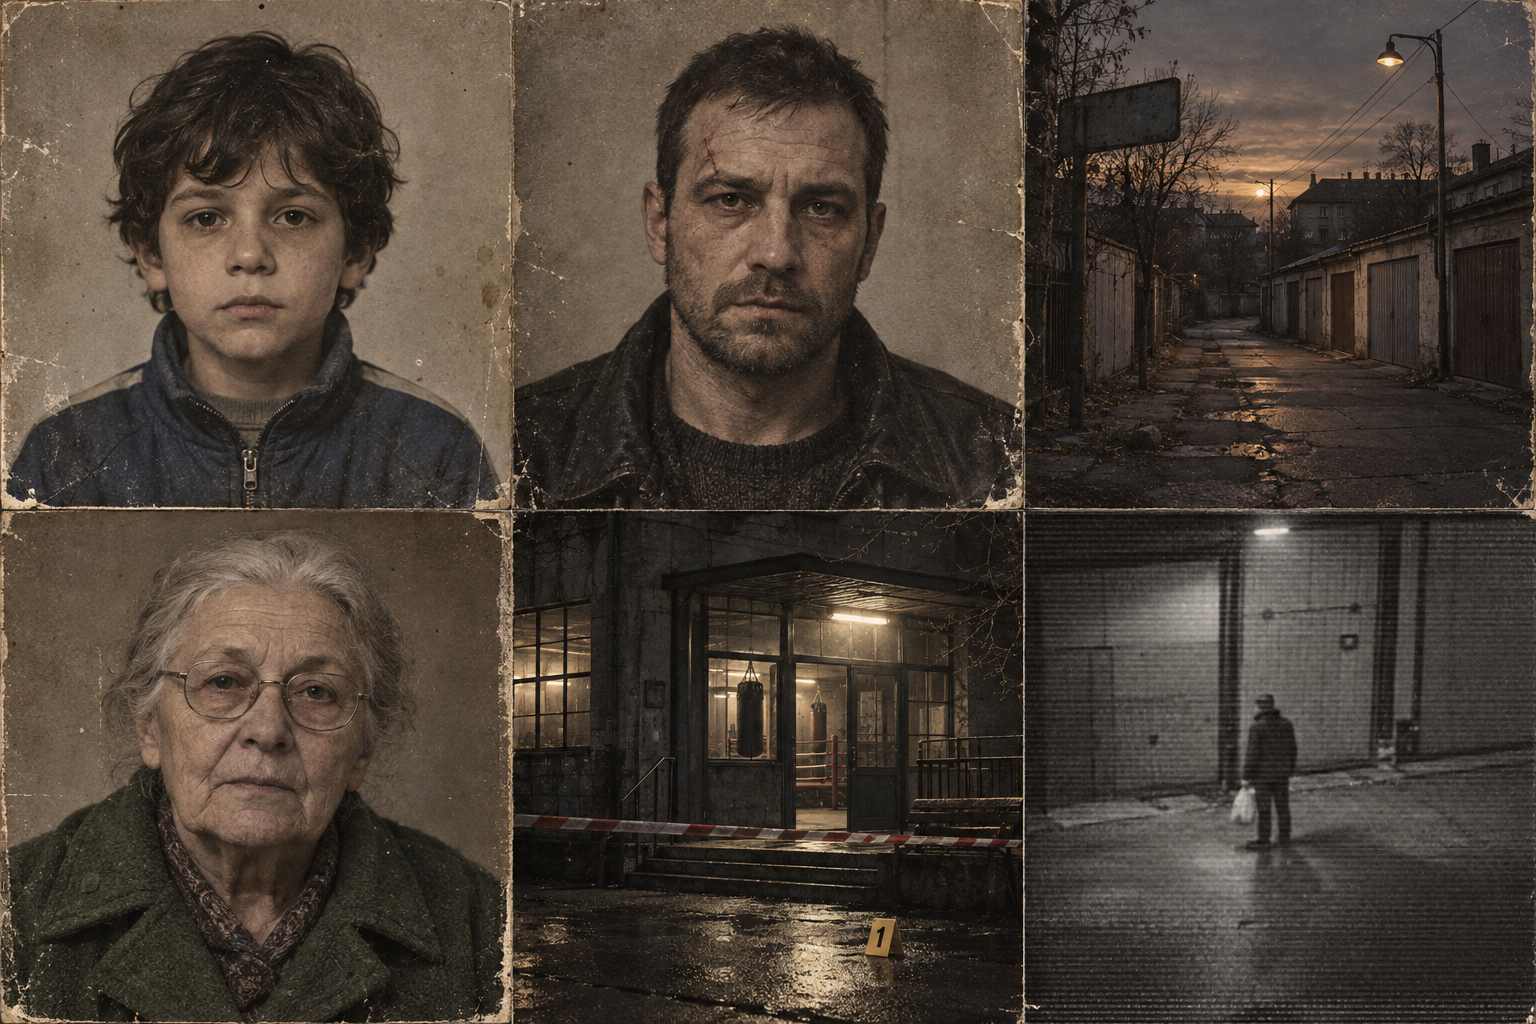
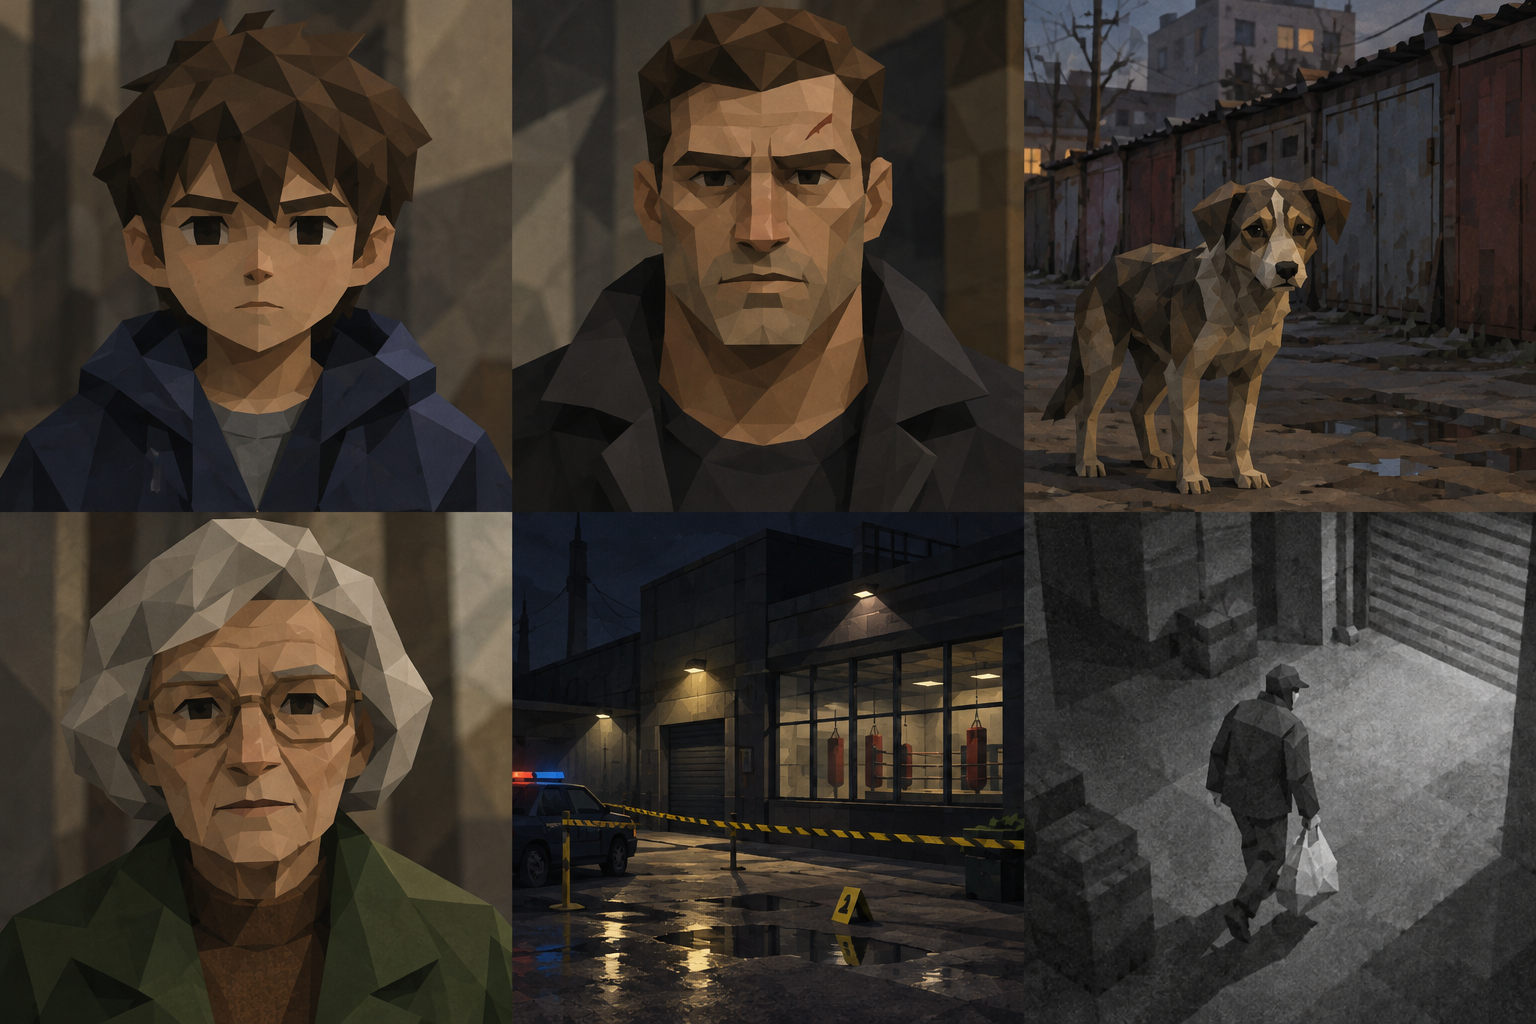
Fix form pockets, remove staff label and use low-poly notice illustrations

diff --git a/src/reception-details.js b/src/reception-details.js
@@ -30,7 +30,6 @@ export function furnishReceptionDetails(scene,{ground,wood,frame,paper,steel,rou
   }
   rounded(.035,.14,.015,.30,.96,.077,steel,door);pipe([.30,.99,.092],[.18,.99,.092],.009,brass,door);
   for(const y of [.33,1.77])rounded(.025,.09,.028,-.407,y,.077,brass,door);
-  plaque('СЛУЖЕБНОЕ ПОМЕЩЕНИЕ',.65,.09,0,1.84,.085,door);
   // Citizen reception desk in the free section of wall beyond the lockers.
   const area=new THREE.Group();area.position.set(2.79,ground,5.66);area.rotation.y=-Math.PI/2;scene.add(area);area.name='citizen-reception';area.userData.editor={id:'citizen-reception',label:'Приём граждан',solid:true,revision:2};
   rounded(1.36,1.04,.035,0,1.88,0,wood,area);rounded(1.27,.96,.008,0,1.88,.025,cork,area);
@@ -45,9 +44,14 @@ export function furnishReceptionDetails(scene,{ground,wood,frame,paper,steel,rou
   },720,700);panel(schedule,.57,.60,.34,2.02,.035,area);
   const form=canvasMap((ctx,w,h)=>{ctx.fillStyle='#e8dec4';ctx.fillRect(0,0,w,h);ctx.fillStyle='#3b4437';ctx.textAlign='center';ctx.font='bold 48px Arial';ctx.fillText('ЗАЯВЛЕНИЕ',w/2,90);ctx.textAlign='left';ctx.font='30px Arial';ctx.fillText('Начальнику участка № 7',45,174);ctx.fillText('От __________________',45,230);for(let i=0;i<11;i++)ctx.fillRect(45,320+i*45,w-90,2);ctx.fillText('Дата ______ Подпись ______',45,h-70);});
   for(const x of [-.48,-.18]){
-    for(let i=0;i<3;i++)panel(form,.235,.32,x+i*.003,1.57+i*.004,.047+i*.002,area);
-    for(const side of [-1,1])pipe([x+side*.125,1.35,.065],[x+side*.125,1.57,.065],.005,steel,area);
-    pipe([x-.125,1.36,.065],[x+.125,1.36,.065],.005,steel,area);
+    // One visible sheet over a solid paper stack, without overlapping printed planes.
+    rounded(.235,.32,.006,x,1.565,.047,paper,area);
+    panel(form,.235,.32,x,1.565,.051,area);
+    for(const side of [-1,1]){
+      pipe([x+side*.125,1.40,.070],[x+side*.125,1.60,.070],.005,steel,area);
+      pipe([x+side*.125,1.40,.031],[x+side*.125,1.40,.070],.005,steel,area);
+    }
+    pipe([x-.125,1.40,.070],[x+.125,1.40,.070],.005,steel,area);
     plaque(x<-.3?'ОБРАЗЕЦ':'БЛАНКИ',.24,.05,x,1.82,.045,area);
   }
   rounded(1.55,.055,.67,0,.77,.385,wood,area);
